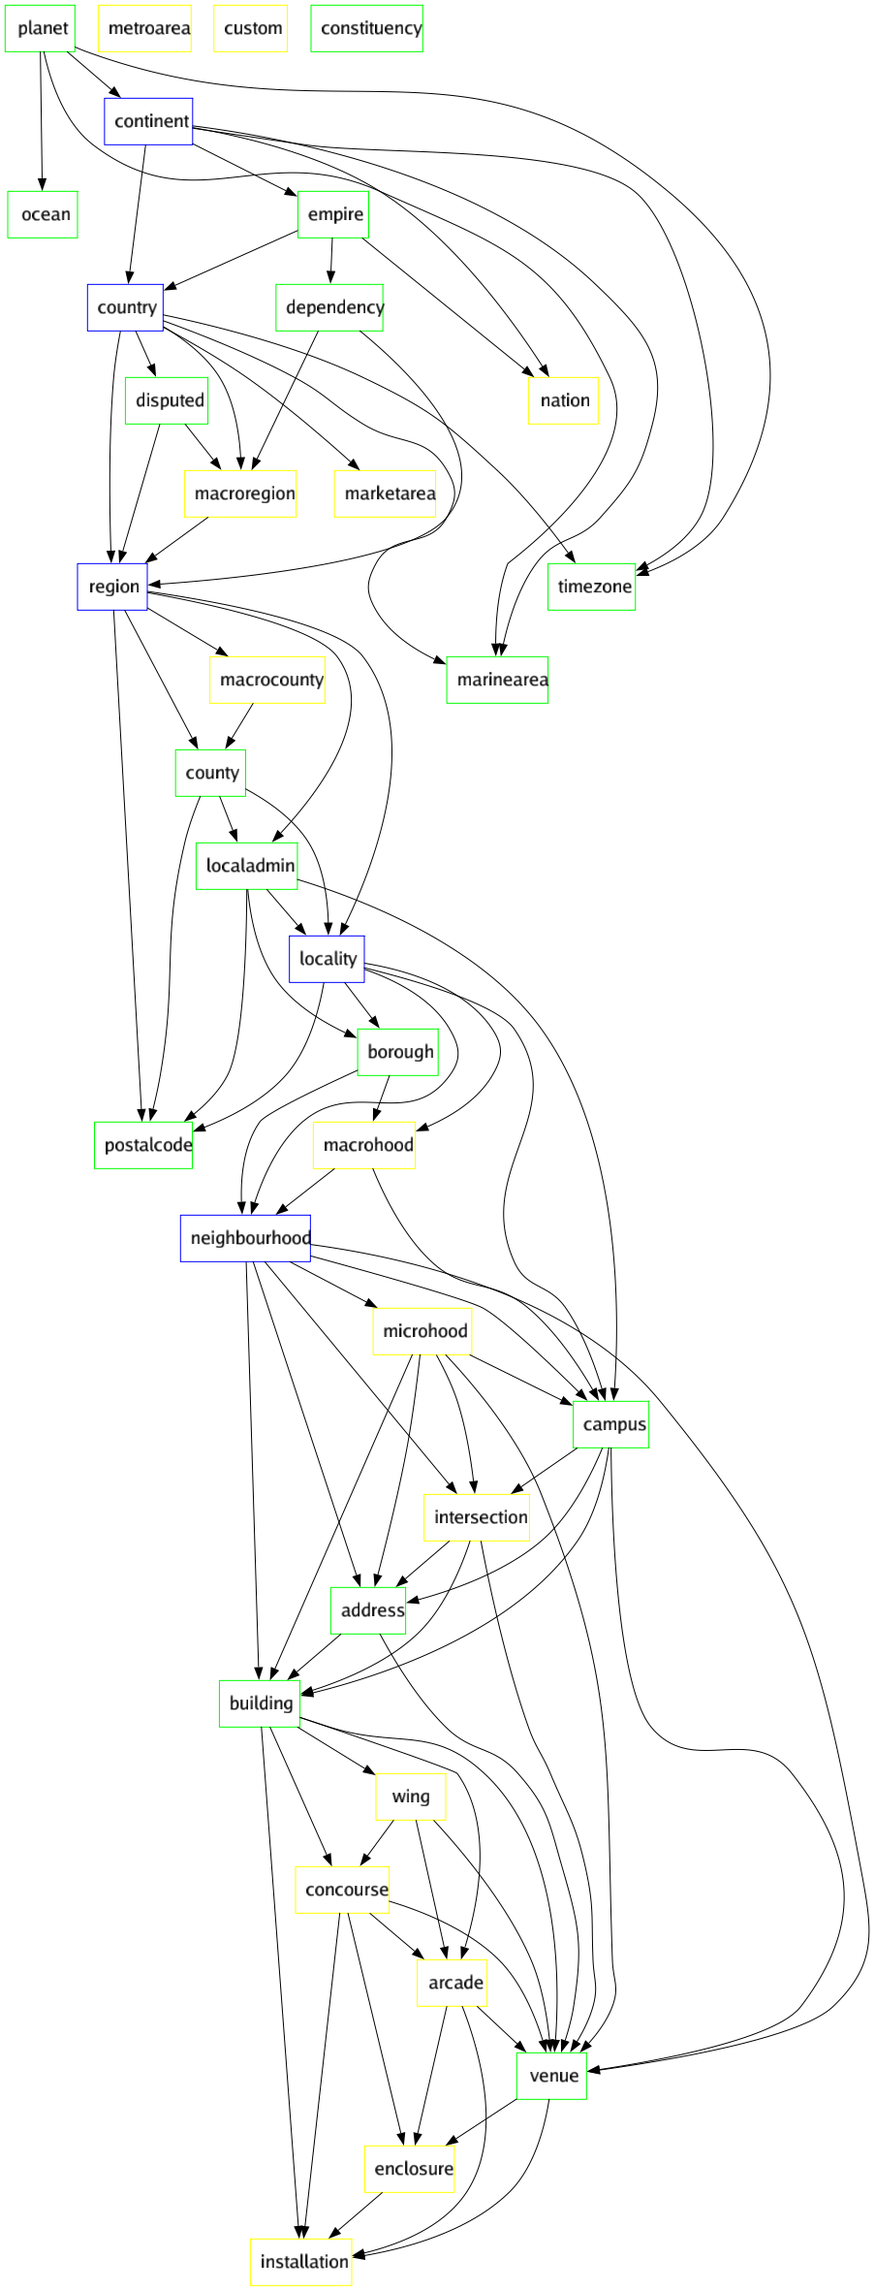
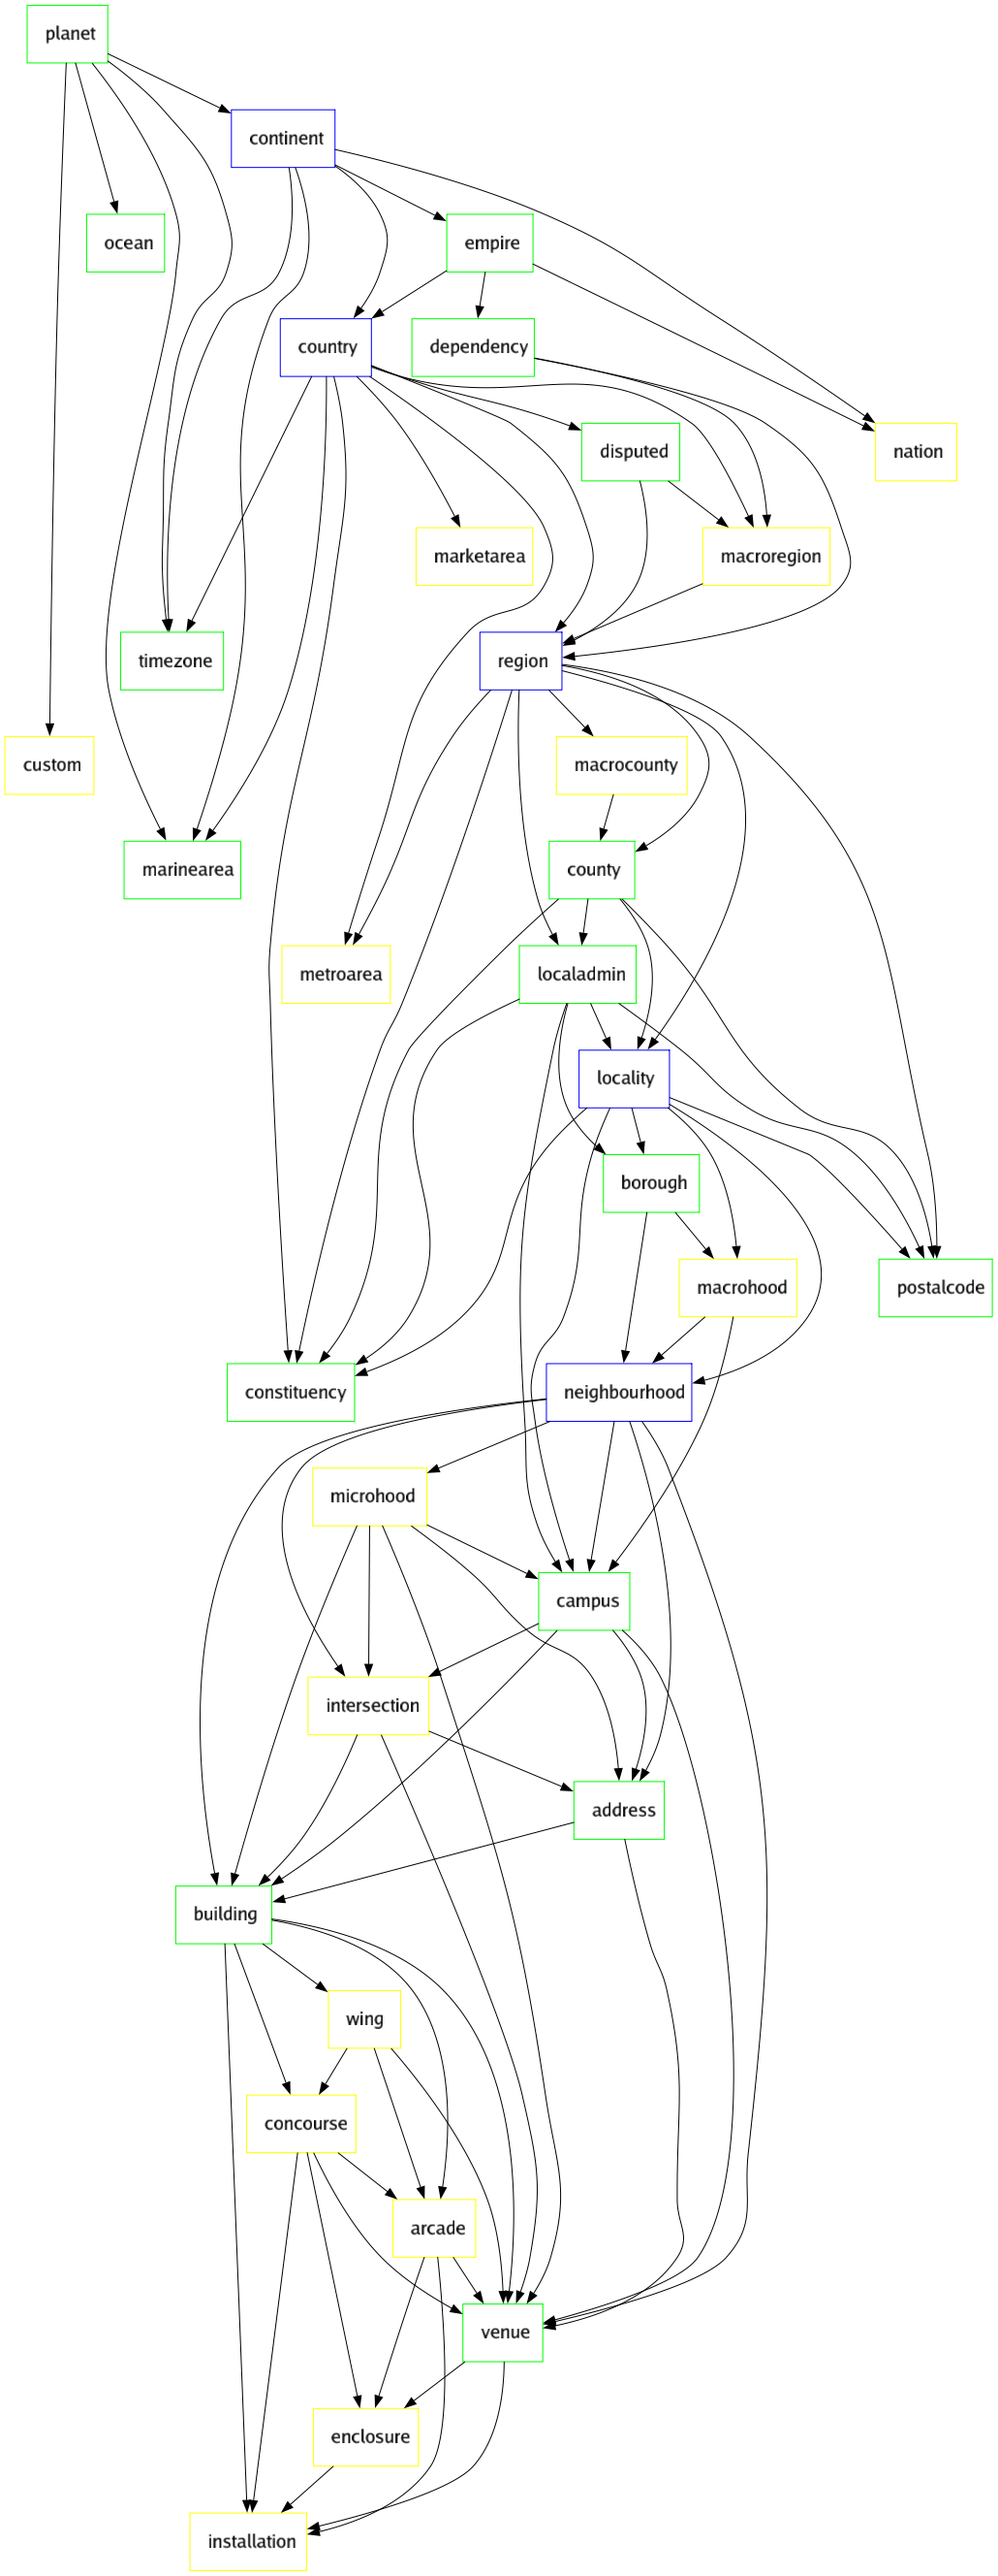
rebuild placetype; improved docs; improved GV output

diff --git a/specification.go b/specification.go
@@ -79,6 +79,7 @@ func NewWOFPlacetypeSpecificationWithReader(r io.Reader) (*WOFPlacetypeSpecifica
 	return spec, nil
 }
 
+// NewWOFPlacetypeSpecification returns a `WOFPlacetypeSpecification` derived from 'body'.
 func NewWOFPlacetypeSpecification(body []byte) (*WOFPlacetypeSpecification, error) {
 
 	r := bytes.NewReader(body)
@@ -107,13 +108,7 @@ func (spec *WOFPlacetypeSpecification) indexRelationships() {
 
 	spec.relationships = new(sync.Map)
 
-	roles := []string{
-		COMMON_ROLE,
-		OPTIONAL_ROLE,
-		COMMON_OPTIONAL_ROLE,
-		CUSTOM_ROLE,
-	}
-
+	roles := AllRoles()
 	count_roles := len(roles)
 
 	for i := 0; i < count_roles; i++ {
@@ -129,6 +124,15 @@ func (spec *WOFPlacetypeSpecification) indexRelationships() {
 
 }
 
+// Placetypes returns all the known placetypes which are descendants of "planet" for the 'common', 'optional', 'common_optional', and 'custom' roles.
+func (spec *WOFPlacetypeSpecification) Placetypes() ([]*WOFPlacetype, error) {
+
+	roles := AllRoles()
+
+	return spec.PlacetypesForRoles(roles)
+}
+
+// Placetypes returns all the known placetypes which are descendants of "planet" whose role match any of those defined in 'roles'.
 func (spec *WOFPlacetypeSpecification) PlacetypesForRoles(roles []string) ([]*WOFPlacetype, error) {
 
 	pl, err := spec.GetPlacetypeByName("planet")
@@ -143,10 +147,8 @@ func (spec *WOFPlacetypeSpecification) PlacetypesForRoles(roles []string) ([]*WO
 	return pt_list, nil
 }
 
+// GetPlacetypesByName returns the `WOFPlacetype` instance associated with 'name'.
 func (spec *WOFPlacetypeSpecification) GetPlacetypeByName(name string) (*WOFPlacetype, error) {
-
-	// spec.mu.RLock()
-	// defer spec.mu.RUnlock()
 
 	for str_id, pt := range spec.catalog {
 
@@ -168,6 +170,7 @@ func (spec *WOFPlacetypeSpecification) GetPlacetypeByName(name string) (*WOFPlac
 	return nil, fmt.Errorf("Invalid placetype")
 }
 
+// GetPlacetypesByName returns the `WOFPlacetype` instance associated with 'id'.
 func (spec *WOFPlacetypeSpecification) GetPlacetypeById(id int64) (*WOFPlacetype, error) {
 
 	for str_id, pt := range spec.catalog {
@@ -189,6 +192,7 @@ func (spec *WOFPlacetypeSpecification) GetPlacetypeById(id int64) (*WOFPlacetype
 	return nil, fmt.Errorf("Invalid placetype")
 }
 
+// AppendPlacetypeSpecification appends the placetypes defined in 'other_spec' to the catalog of available placetypes in 'spec'.
 func (spec *WOFPlacetypeSpecification) AppendPlacetypeSpecification(other_spec *WOFPlacetypeSpecification) error {
 
 	if spec.isIndexingRelationships() {
@@ -218,6 +222,7 @@ func (spec *WOFPlacetypeSpecification) AppendPlacetypeSpecification(other_spec *
 	return nil
 }
 
+// AppendPlacetype appends 'pt' to the catalog of available placetypes.
 func (spec *WOFPlacetypeSpecification) AppendPlacetype(pt WOFPlacetype) error {
 
 	spec.mu.Lock()
@@ -251,6 +256,7 @@ func (spec *WOFPlacetypeSpecification) AppendPlacetype(pt WOFPlacetype) error {
 	return nil
 }
 
+// Catalog returns the catalog of placetypes contained by 'spec'.
 func (spec *WOFPlacetypeSpecification) Catalog() map[string]WOFPlacetype {
 	return spec.catalog
 }
@@ -292,12 +298,7 @@ func (spec *WOFPlacetypeSpecification) IsValidPlacetypeId(id int64) bool {
 // Returns true is 'b' is an ancestor of 'a'.
 func (spec *WOFPlacetypeSpecification) IsAncestor(a *WOFPlacetype, b *WOFPlacetype) bool {
 
-	roles := []string{
-		COMMON_ROLE,
-		OPTIONAL_ROLE,
-		COMMON_OPTIONAL_ROLE,
-		CUSTOM_ROLE,
-	}
+	roles := AllRoles()
 
 	str_roles := strings.Join(roles, "-")
 	key := fmt.Sprintf("%d_%d_%s_is_ancestor", a.Id, b.Id, str_roles)
@@ -328,12 +329,7 @@ func (spec *WOFPlacetypeSpecification) IsAncestor(a *WOFPlacetype, b *WOFPlacety
 // Returns true is 'b' is a descendant of 'a'.
 func (spec *WOFPlacetypeSpecification) IsDescendant(a *WOFPlacetype, b *WOFPlacetype) bool {
 
-	roles := []string{
-		COMMON_ROLE,
-		OPTIONAL_ROLE,
-		COMMON_OPTIONAL_ROLE,
-		CUSTOM_ROLE,
-	}
+	roles := AllRoles()
 
 	str_roles := strings.Join(roles, "-")
 	key := fmt.Sprintf("%d_%d_%s_is_descendant", a.Id, b.Id, str_roles)
@@ -484,23 +480,33 @@ func (spec *WOFPlacetypeSpecification) GraphPlacetypes() (graph.Graph[string, *W
 	for str_id, pt := range spec.catalog {
 
 		var color string
+		var shape string
 
 		switch pt.Role {
 		case COMMON_ROLE:
 			color = "blue"
+			shape = "box"
 		case COMMON_OPTIONAL_ROLE:
 			color = "green"
+			shape = "box"
 		case OPTIONAL_ROLE:
 			color = "yellow"
+			shape = "box"
 		case CUSTOM_ROLE:
 			color = "orange"
+			shape = "ellipse"
 		default:
 			color = "black"
+			shape = "ellipse"
 		}
 
+		// https://graphviz.org/doc/info/attrs.html
+
 		attrs := []func(*graph.VertexProperties){
-			graph.VertexAttribute("shape", "box"),
+			graph.VertexAttribute("shape", shape),
 			graph.VertexAttribute("color", color),
+			graph.VertexAttribute("decorate", "true"),
+			graph.VertexAttribute("margin", ".2"),
 		}
 
 		err := gr.AddVertex(&pt, attrs...)
@@ -543,6 +549,24 @@ func (spec *WOFPlacetypeSpecification) GraphPlacetypes() (graph.Graph[string, *W
 			if err != nil {
 				return nil, fmt.Errorf("Failed to add edge between %v and %v, %w", p_pt, pt, err)
 			}
+
+			/*
+
+			 TO DO: draw concordances for a given placeptye. This is block on the absence of any
+			 concordance related properties on the WOFPlacetype struct.For example, sfomuseum-placetypes/placetypes/airport.json:
+
+			{
+			    "sfomuseum:role": "custom",
+			    "sfomuseum:name": "airport",
+			    "sfomuseum:label": "Airport",
+			    "sfomuseum:parent": [ "locality", "localadmin" ],
+			    "sfomuseum:concordances": {
+			        "wof:placetype": "campus"
+			    },
+			    "sfomuseum:id": 1175747225
+			}
+
+			*/
 		}
 
 	}

diff --git a/placetypes.go b/placetypes.go
@@ -26,9 +26,20 @@ type WOFPlacetype struct {
 	// AltNames []WOFPlacetypeAltNames		`json:"names"`
 }
 
+// String returns the value of the `Name` property for 'pt'.
 func (pt *WOFPlacetype) String() string {
 	return pt.Name
 }
+
+// What follows is legacy code. Specifically this is code that was developed before there was
+// the notion of multiple placetype specifications that would be merged. For example the "core"
+// Who's On First placetype specification and the SFO Museum placetype specification defined in
+// sfomuseum/go-sfomuseum-placetypes and sfomuseum/sfomuseum-placetypes packages. As such there
+// was no need to expose the underlying `WOFPlacetypeSpecification` instance and all methods
+// were assumed to operate on the internal specification instance. Subsequently all the code that
+// used to be defined as standalone methods without reference to any specific placetype specification
+// has been moved in specification.go (and are now methods on individual WOFPlacetypeSpecification
+// instances). These methods have been preserved for backwards compatibility.
 
 var specification *WOFPlacetypeSpecification
 
@@ -43,23 +54,27 @@ func init() {
 	specification = s
 }
 
+// GetPlacetypesByName returns the `WOFPlacetype` instance associated with 'name'.
 func GetPlacetypeByName(name string) (*WOFPlacetype, error) {
 	return specification.GetPlacetypeByName(name)
 }
 
+// GetPlacetypesByName returns the `WOFPlacetype` instance associated with 'id'.
 func GetPlacetypeById(id int64) (*WOFPlacetype, error) {
 	return specification.GetPlacetypeById(id)
 }
 
+// AppendPlacetype appends 'pt' to the catalog of available placetypes.
 func AppendPlacetype(pt WOFPlacetype) error {
 	return specification.AppendPlacetype(pt)
 }
 
+// AppendPlacetypeSpecification appends the placetypes defined in 'other_spec' to the catalog of available placetypes in 'spec'.
 func AppendPlacetypeSpecification(spec *WOFPlacetypeSpecification) error {
 	return specification.AppendPlacetypeSpecification(spec)
 }
 
-// Placetypes returns all the known placetypes for the 'common', 'optional' and 'common_optional' roles.
+// Placetypes returns all the known placetypes which are descendants of "planet" for the 'common', 'optional', 'common_optional', and 'custom' roles.
 func Placetypes() ([]*WOFPlacetype, error) {
 
 	roles := []string{
@@ -72,6 +87,7 @@ func Placetypes() ([]*WOFPlacetype, error) {
 	return PlacetypesForRoles(roles)
 }
 
+// Placetypes returns all the known placetypes which are descendants of "planet" whose role match any of those defined in 'roles'.
 func PlacetypesForRoles(roles []string) ([]*WOFPlacetype, error) {
 	return specification.PlacetypesForRoles(roles)
 }

diff --git a/roles.go b/roles.go
@@ -11,3 +11,16 @@ const COMMON_OPTIONAL_ROLE string = "common_optional"
 
 // CUSTOM_ROLE defines the string label for the "custom" placetype role.
 const CUSTOM_ROLE string = "custom"
+
+// AllRoles returns a list of all the known placetype roles.
+func AllRoles() []string {
+
+	roles := []string{
+		COMMON_ROLE,
+		OPTIONAL_ROLE,
+		COMMON_OPTIONAL_ROLE,
+		CUSTOM_ROLE,
+	}
+
+	return roles
+}
